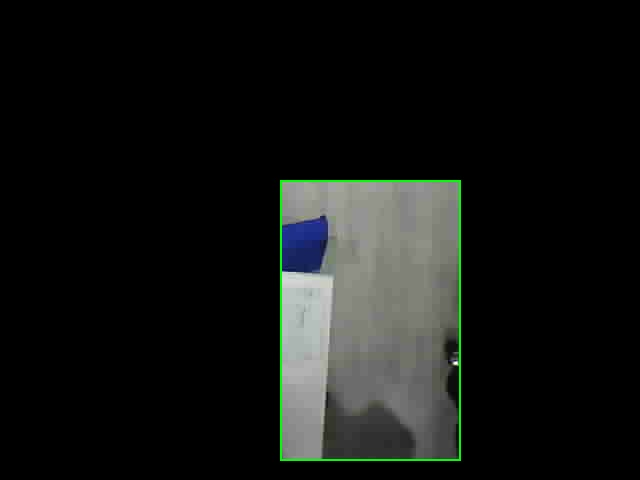
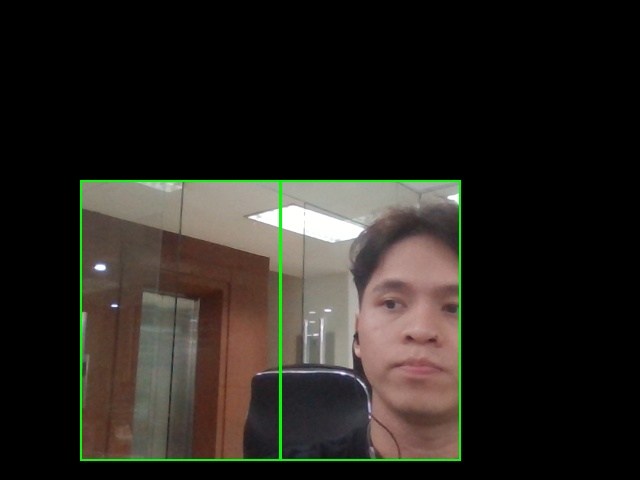
webcam processing

diff --git a/core/streaming.py b/core/streaming.py
@@ -31,7 +31,10 @@ def camera_streamming_processing(interval=2, stream_url='http://192.168.1.201/64
             # Chuyển đổi dữ liệu JPEG thành frame
             frame = cv2.imdecode(np.frombuffer(jpg, dtype=np.uint8), cv2.IMREAD_COLOR)        
 
-            if frame is not None:         
+            if frame is not None: 
+
+                start = False # flag to starting time   
+
                 # Get all zones from database
                 zones = get_all_zone()
 
@@ -69,8 +72,11 @@ def camera_streamming_processing(interval=2, stream_url='http://192.168.1.201/64
                         # track processing
                         track = track_processing(output_file, zone_id)
                         print(track)
+                        
+                        start = True # start to count down time
 
-                        start_time = time.time()
+                if start:    
+                    start_time = time.time()       
                 # Hiển thị frame hiện tại
                 cv2.imshow('Video Frame', frame)
                 
@@ -90,58 +96,68 @@ def webcam_processing(interval=5):
     print("Starting live webcam stream. Capturing a frame every 5 seconds...")
     start_time = time.time()  # Record the starting time
 
-    # Retrieve all zones from database once at the start
-    zones = get_all_zone()
 
     while True:
         ret, frame = cap.read()
+
         if not ret:
             print("Failed to capture frame from webcam. Exiting...")
+            cap.release()
             break
 
-        # Process the frame to draw bounding boxes for all zones
-        for zone in zones:
-            zone_id, x1, y1, x2, y2, x3, y3, x4, y4 = zone
-            top_left = (int(min(x1, x3)), int(min(y1, y2)))  # Top-left corner
-            bottom_right = (int(max(x2, x4)), int(max(y3, y4)))  # Bottom-right corner
-
-            # Draw bounding box on the frame
-            frame = draw_bounding_box(frame, top_left, bottom_right)
-
-        # Display the processed frame
-        cv2.imshow('Live Webcam Processing', frame)
-
-        # Check if it's time to capture a frame
-        elapsed_time = time.time() - start_time
-        if elapsed_time >= interval:
-            print("Capturing frame...")
-
-            # Create a mask for cropping based on zones
-            mask = np.zeros(frame.shape[:2], dtype=np.uint8)
+        if frame is not None: 
+            # flag to starting time       
+            start = False              
+            # Get all zones from database
+            zones = get_all_zone()
 
             # Fill the mask for all zones
             for zone in zones:
+                # Extract points for the bounding box
                 zone_id, x1, y1, x2, y2, x3, y3, x4, y4 = zone
+
+                # Calculate the bounding box's top-left and bottom-right coordinates
                 top_left = (int(min(x1, x3)), int(min(y1, y2)))  # Top-left corner
                 bottom_right = (int(max(x2, x4)), int(max(y3, y4)))  # Bottom-right corner
 
-                # Create a rectangle on the mask for each zone
-                cv2.rectangle(mask, top_left, bottom_right, 255, thickness=cv2.FILLED)
+                # Draw a bounding box on the frame.
+                frame = draw_bounding_box(frame, top_left, bottom_right)
 
-            # Apply the mask to the frame to keep only the area within the zones
-            masked_frame = cv2.bitwise_and(frame, frame, mask=mask)
+                # Kiểm tra thời gian đã trôi qua
+                elapsed_time = time.time() - start_time
 
-            # Save the masked frame with zones only
-            output_file = "tmp_image.jpg"
-            cv2.imwrite(output_file, masked_frame)
-            print("Cropped frame saved at tmp_image.jpg")
+                # Cứ 30 giây (hoặc thời gian interval) thì crop frame 1 lần
+                if elapsed_time >= interval:
+                    # Create a mask for cropping based on zones
+                    mask = np.zeros(frame.shape[:2], dtype=np.uint8)
 
-            start_time = time.time()  # Reset the start time for the next capture
+                    # Create a rectangle on the mask
+                    cv2.rectangle(mask, top_left, bottom_right, 255, thickness=cv2.FILLED)
 
-        # Wait for 'q' key to exit
-        if cv2.waitKey(1) & 0xFF == ord('q'):
-            break
+                    # Crop the frame to keep only the area within the bounding box
+                    cropped_frame = cv2.bitwise_and(frame, frame, mask=mask)
+
+                    # Save the cropped frame to a file
+                    output_file = "tmp_image.jpg"
+                    cv2.imwrite(output_file, cropped_frame)
+                    print("Cropped frame saved at tmp_image.jpg")
+
+                    # track processing
+                    track = track_processing(output_file, zone_id)
+                    print(track)
+
+                    start = True # start to count down time
+
+            if start:    
+                start_time = time.time() 
+
+            # Hiển thị frame hiện tại
+            cv2.imshow('Video Frame', frame)
+            
+            # Thoát khi nhấn phím 'q'
+            if cv2.waitKey(1) & 0xFF == ord('q'):
+                cap.release()
+                break
 
     # Release resources
-    cap.release()
     cv2.destroyAllWindows()

diff --git a/core/face_processing.py b/core/face_processing.py
@@ -5,7 +5,7 @@ from vector_db import qdrant_client
 from database import insert_track
 from datetime import datetime
 
-def track_processing(zone_image_file, zone_id):
+def track_processing(zone_image_file, zone_id, threshold = 0.5):
     try:
         print("Analyzing face...")
         # Generate the embedding using DeepFace with Facenet model
@@ -20,6 +20,13 @@ def track_processing(zone_image_file, zone_id):
 
         for point in search_result:
             staff_id = point.id
+            score = point.score
+            print(score)
+
+            # Check threshold
+            if score < threshold:
+                return "face does not exist in db!"
+
             current_datetime = datetime.now()
             insert_track(staff_id, zone_id, current_datetime)
 

diff --git a/test_db.py b/test_db.py
@@ -1,4 +1,5 @@
 from database import fetch_staff_embeddings, load_staff, get_staff_info, get_all_zone, insert_zone
+from database import get_all_track
 
 # staff_embeddings = fetch_staff_embeddings()
 # print(staff_embeddings)
@@ -10,6 +11,9 @@ from database import fetch_staff_embeddings, load_staff, get_staff_info, get_all
 # info = get_staff_info(id = "c477df85-b76e-4347-8a2d-7ee9a1161e1c")
 # print(info)
 
-insert_zone(80, 220, 40, 180, 380, 460, 460, 280)
-zones = get_all_zone()
-print(zones)
+# insert_zone(80, 220, 40, 180, 380, 460, 460, 280)
+# zones = get_all_zone()
+# print(zones)
+
+tracks = get_all_track()
+print(tracks)

diff --git a/database/track_operation.py b/database/track_operation.py
@@ -6,3 +6,9 @@ def insert_track(staff_id, zone_id, time):
                         VALUES (?, ?, ?)''', (staff_id, zone_id, time))
     sqlite_conn.commit()
     print("Insert track successfully!")
+
+def get_all_track():
+    # Fetch all zones from the database
+    cursor.execute("SELECT * FROM track")
+    tracks = cursor.fetchall()
+    return tracks

diff --git a/test_streaming.py b/test_streaming.py
@@ -1,5 +1,6 @@
 # from api.processing import streamming_processing
-from core import camera_streamming_processing
+from core import camera_streamming_processing, webcam_processing
 
 if __name__ == "__main__":
-    camera_streamming_processing(interval=5)
+    # camera_streamming_processing(interval=5)
+    webcam_processing(interval=3)

diff --git a/database/__init__.py b/database/__init__.py
@@ -1,4 +1,4 @@
 from .connect_db import cursor, sqlite_conn
 from .operations import fetch_staff_embeddings, load_staff, get_staff_info, insert_staff
 from .zone_operation import get_all_zone, delete_zone, insert_zone
-from .track_operation import insert_track
+from .track_operation import insert_track, get_all_track
